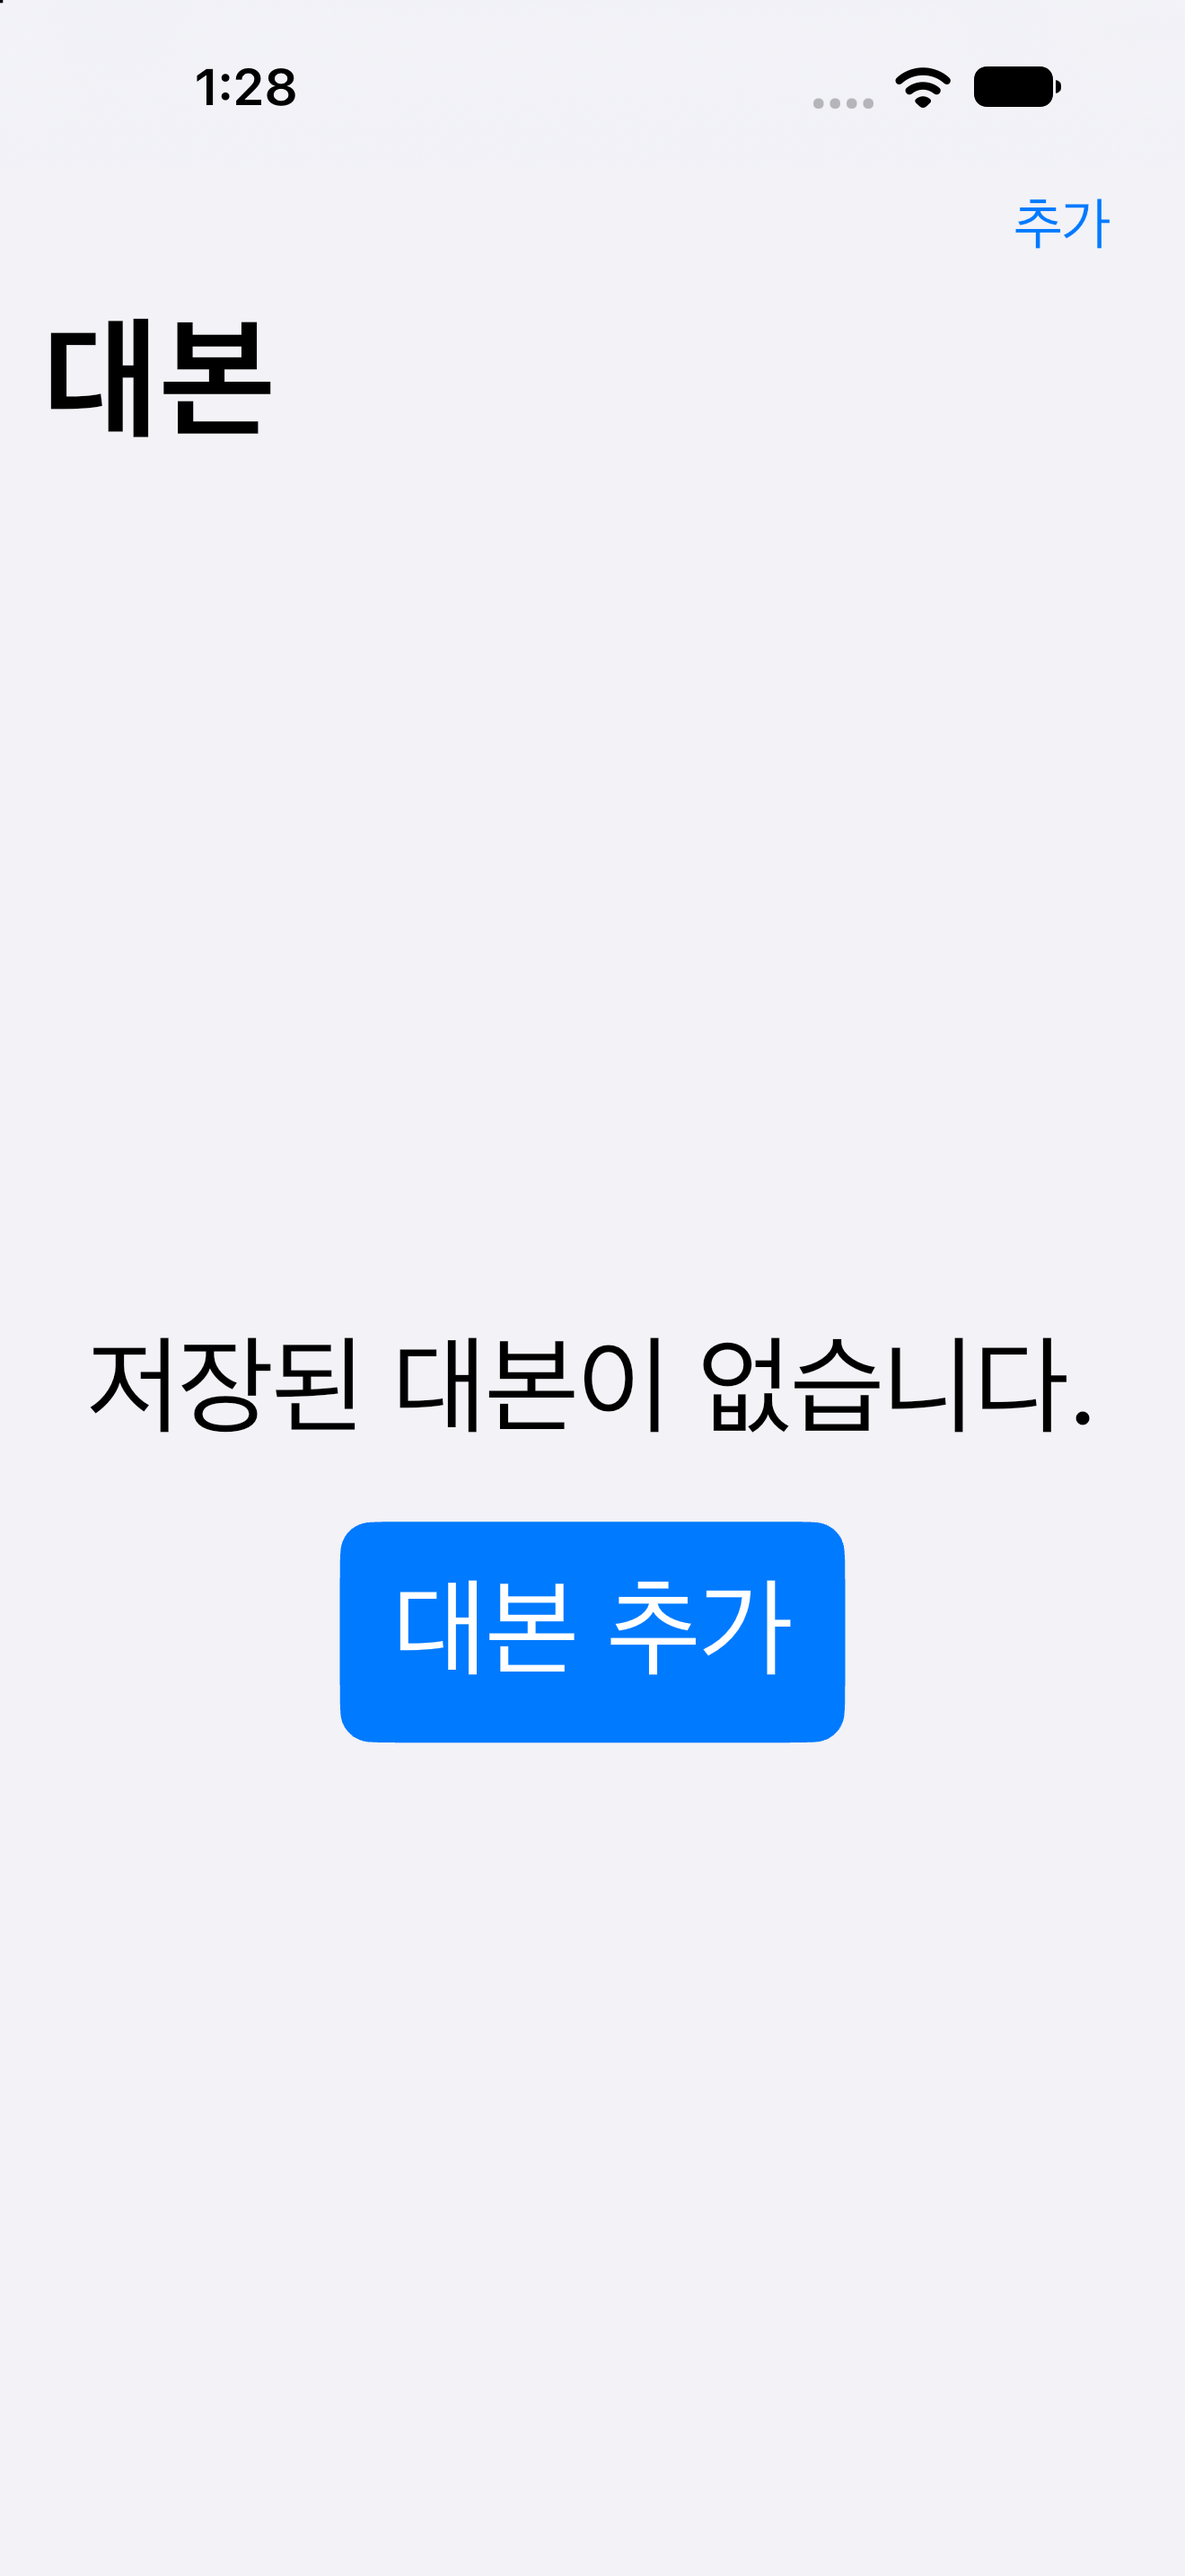
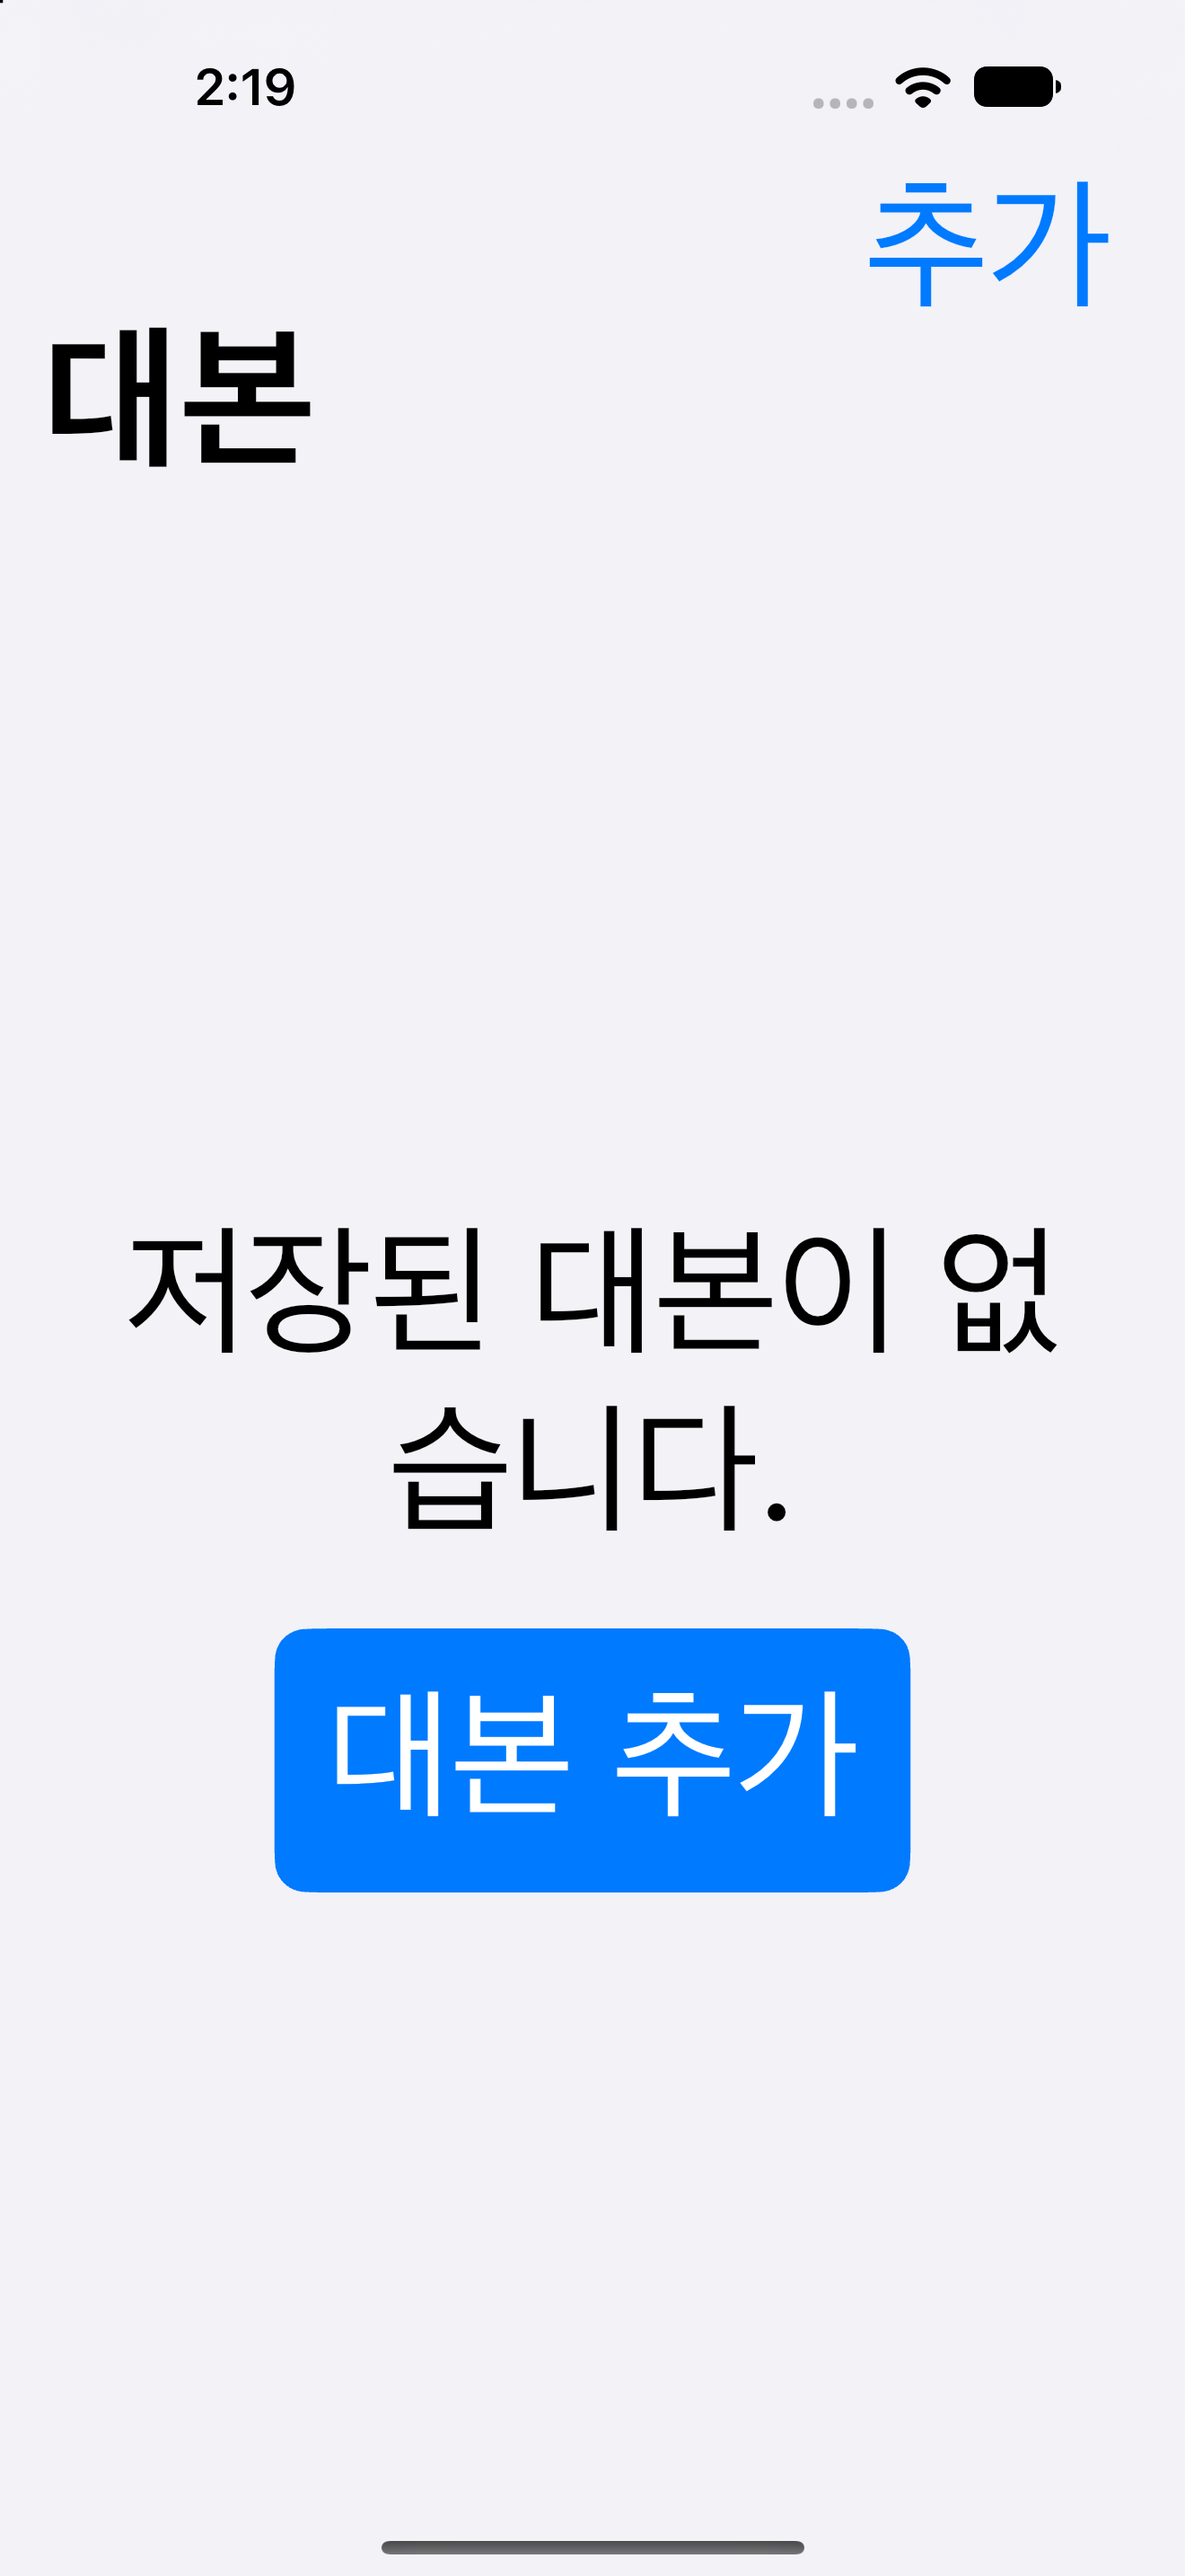
[#73] fix: Code Review 1

diff --git a/test/widget/script_list_view_test.dart b/test/widget/script_list_view_test.dart
@@ -152,42 +152,94 @@ void main() {
     );
   });
 
-  testWidgets('Android 추가 버튼은 48 실제 터치 영역과 Semantics를 제공한다', (tester) async {
+  testWidgets('iOS와 Android 추가 버튼은 200% 배율과 접근성을 보존한다', (tester) async {
     final originalPlatform = debugDefaultTargetPlatformOverride;
-    debugDefaultTargetPlatformOverride = TargetPlatform.android;
-    final repository = _WidgetScriptRepository();
     final semantics = tester.ensureSemantics();
+    final scaledButtonRects = <TargetPlatform, Rect>{};
     try {
-      await tester.pumpWidget(_buildApp(repository));
-      await tester.pumpAndSettle();
+      for (final platform in [TargetPlatform.iOS, TargetPlatform.android]) {
+        debugDefaultTargetPlatformOverride = platform;
+        tester.platformDispatcher.textScaleFactorTestValue = 1;
+        await tester.pumpWidget(_buildApp(_WidgetScriptRepository()));
+        await tester.pumpAndSettle();
 
-      final listAddButton = find.byKey(const Key('script-list-add-button'));
-      final buttonRect = tester.getRect(listAddButton);
-      expect(buttonRect.width, greaterThanOrEqualTo(48));
-      expect(buttonRect.height, greaterThanOrEqualTo(48));
-      final addButtonSemantics = find.bySemanticsLabel('새 대본 추가');
-      expect(addButtonSemantics, findsOneWidget);
-      expect(
-        tester
-            .getSemantics(addButtonSemantics)
-            .getSemanticsData()
-            .hasAction(SemanticsAction.tap),
-        isTrue,
-      );
+        final addButton = find.byKey(const Key('script-list-add-button'));
+        final unscaledButtonRect = tester.getRect(addButton);
+        final unscaledLabelRect = tester.getRect(find.text('추가'));
 
-      final buttonRenderObject = tester.renderObject(listAddButton);
-      for (final position in [
-        buttonRect.topLeft + const Offset(1, 1),
-        buttonRect.bottomRight - const Offset(1, 1),
-      ]) {
-        final hitTest = tester.hitTestOnBinding(position);
+        await tester.pumpWidget(const SizedBox.shrink());
+        tester.platformDispatcher.textScaleFactorTestValue = 2;
+        await tester.pumpWidget(_buildApp(_WidgetScriptRepository()));
+        await tester.pumpAndSettle();
+
+        final scaledButtonRect = tester.getRect(addButton);
+        final scaledLabelRect = tester.getRect(find.text('추가'));
+        scaledButtonRects[platform] = scaledButtonRect;
+
+        expect(tester.takeException(), isNull);
+        expect(scaledButtonRect.width, greaterThanOrEqualTo(48));
+        expect(scaledButtonRect.height, greaterThanOrEqualTo(48));
+        expect(scaledButtonRect.topRight, unscaledButtonRect.topRight);
         expect(
-          hitTest.path.any((entry) => entry.target == buttonRenderObject),
+          scaledLabelRect.width,
+          greaterThan(unscaledLabelRect.width * 1.8),
+        );
+        expect(
+          scaledLabelRect.height,
+          greaterThan(unscaledLabelRect.height * 1.8),
+        );
+        expect(scaledButtonRect.contains(scaledLabelRect.topLeft), isTrue);
+        expect(scaledButtonRect.contains(scaledLabelRect.bottomRight), isTrue);
+
+        final addButtonSemantics = find.bySemanticsLabel('새 대본 추가');
+        expect(addButtonSemantics, findsOneWidget);
+        expect(
+          tester
+              .getSemantics(addButtonSemantics)
+              .getSemanticsData()
+              .hasAction(SemanticsAction.tap),
           isTrue,
         );
-      }
 
-      await tester.tap(listAddButton);
+        final buttonRenderObject = tester.renderObject(addButton);
+        for (final position in [
+          scaledButtonRect.topLeft + const Offset(1, 1),
+          scaledButtonRect.bottomRight - const Offset(1, 1),
+        ]) {
+          final hitTest = tester.hitTestOnBinding(position);
+          expect(
+            hitTest.path.any((entry) => entry.target == buttonRenderObject),
+            isTrue,
+          );
+        }
+
+        await tester.tapAt(scaledButtonRect.bottomRight - const Offset(1, 1));
+        await tester.pumpAndSettle();
+        expect(find.byKey(const Key('script-title-field')), findsOneWidget);
+
+        await tester.pumpWidget(const SizedBox.shrink());
+        await tester.pumpAndSettle();
+      }
+    } finally {
+      tester.platformDispatcher.clearTextScaleFactorTestValue();
+      semantics.dispose();
+      debugDefaultTargetPlatformOverride = originalPlatform;
+    }
+
+    expect(
+      scaledButtonRects[TargetPlatform.android],
+      scaledButtonRects[TargetPlatform.iOS],
+    );
+  });
+
+  testWidgets('Android 추가 화면 내비게이션 조작의 터치 영역이 48 이상이다', (tester) async {
+    final originalPlatform = debugDefaultTargetPlatformOverride;
+    debugDefaultTargetPlatformOverride = TargetPlatform.android;
+    try {
+      await tester.pumpWidget(_buildApp(_WidgetScriptRepository()));
+      await tester.pumpAndSettle();
+
+      await tester.tap(find.byKey(const Key('script-list-add-button')));
       await tester.pumpAndSettle();
       for (final key in [
         const Key('script-create-cancel-button'),
@@ -198,7 +250,6 @@ void main() {
         expect(tester.getSize(button).height, greaterThanOrEqualTo(48));
       }
     } finally {
-      semantics.dispose();
       debugDefaultTargetPlatformOverride = originalPlatform;
     }
   });

diff --git a/lib/src/features/scripts/presentation/script_navigation_actions.dart b/lib/src/features/scripts/presentation/script_navigation_actions.dart
@@ -2,9 +2,6 @@ import 'package:flutter/cupertino.dart';
 import 'package:flutter/foundation.dart';
 import 'package:maltto/src/shared/design/app_tokens.dart';
 
-// Flutter's Cupertino navigation bar applies this ceiling to toolbar text.
-const double _cupertinoNavigationBarMaxTextScaleFactor = 1.235;
-
 bool get usesExpandedNavigationActions =>
     defaultTargetPlatform == TargetPlatform.android;
 
@@ -61,7 +58,13 @@ final class ScriptNavigationButton extends StatelessWidget {
         child: CupertinoButton(
           padding: const EdgeInsets.symmetric(horizontal: AppSpacing.medium),
           onPressed: onPressed,
-          child: Transform.translate(offset: contentOffset, child: child),
+          child: Padding(
+            padding: EdgeInsets.symmetric(
+              horizontal: contentOffset.dx.abs(),
+              vertical: contentOffset.dy.abs(),
+            ),
+            child: Transform.translate(offset: contentOffset, child: child),
+          ),
         ),
       ),
     );
@@ -81,11 +84,7 @@ final class ScriptNavigationActionOverlay extends StatelessWidget {
         alignment: AlignmentDirectional.topEnd,
         child: Padding(
           padding: const EdgeInsetsDirectional.only(end: AppSpacing.large),
-          child: MediaQuery.withClampedTextScaling(
-            minScaleFactor: 1,
-            maxScaleFactor: _cupertinoNavigationBarMaxTextScaleFactor,
-            child: trailing,
-          ),
+          child: trailing,
         ),
       ),
     );
